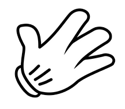
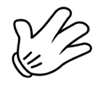
Added workshop slides

diff --git a/workshop2.html b/workshop2.html
@@ -26,6 +26,7 @@
 			font-family: Raleway;
 			margin-bottom: .2em;
 		}
+
 		</style>
 
 		<!-- Printing and PDF exports -->
@@ -49,13 +50,13 @@
 					<h1>Pick a <span class="blue">Partner</span></h1>
 				</section>
 				<section>
-					<h1><span class="raleway">Rock,</span> <span style="display:block;">Paper,</span> <span class="blue" style="display:block;">Scissors</span></h1>
+					<h1><span class="raleway"><img src="img/rock.png" />Rock,</span> <span style="display:block;"><img src="img/paper.png" />Paper,</span> <span class="blue" style="display:block;"><img src="img/scissors.png" />Scissors</span></h1>
 
-					<p><a href="https://designthinkingformuseums.net/2014/02/18/using-improv-games-3-of-3/">Adapted from Design Thinking for Museums</a></p>
+					<p><a href="https://designthinkingformuseums.net/2014/02/18/using-improv-games-3-of-3/">Adapted from Design Thinking for Museums</a> // Images by <a href="https://openclipart.org/detail/213382/rockpaperscissors">OpenClipArt.org</a></p>
 				</section>
 
 				<section style="text-align:left;">
-					<h2><span class="blue rps">Rock</span> <span class="beats">beats Scissors</span><br /> <span class="blue rps">Paper</span> <span class="beats">beats Rock</span><br /> <span class="blue rps">Scissors</span> <span class="beats">beats Paper</span></h2>
+					<h2><span class="blue rps">Rock</span> <span class="beats">beats Scissors</span><br /> &<span class="blue rps"><img src="img/paper.png" />&nbsp;Paper</span> <span class="beats">beats Rock</span><br /> <span class="blue rps">Scissors</span> <span class="beats">beats Paper</span></h2>
 
 					<p><a href="https://designthinkingformuseums.net/2014/02/18/using-improv-games-3-of-3/">Adapted from Design Thinking for Museums</a></p>
 				</section>
